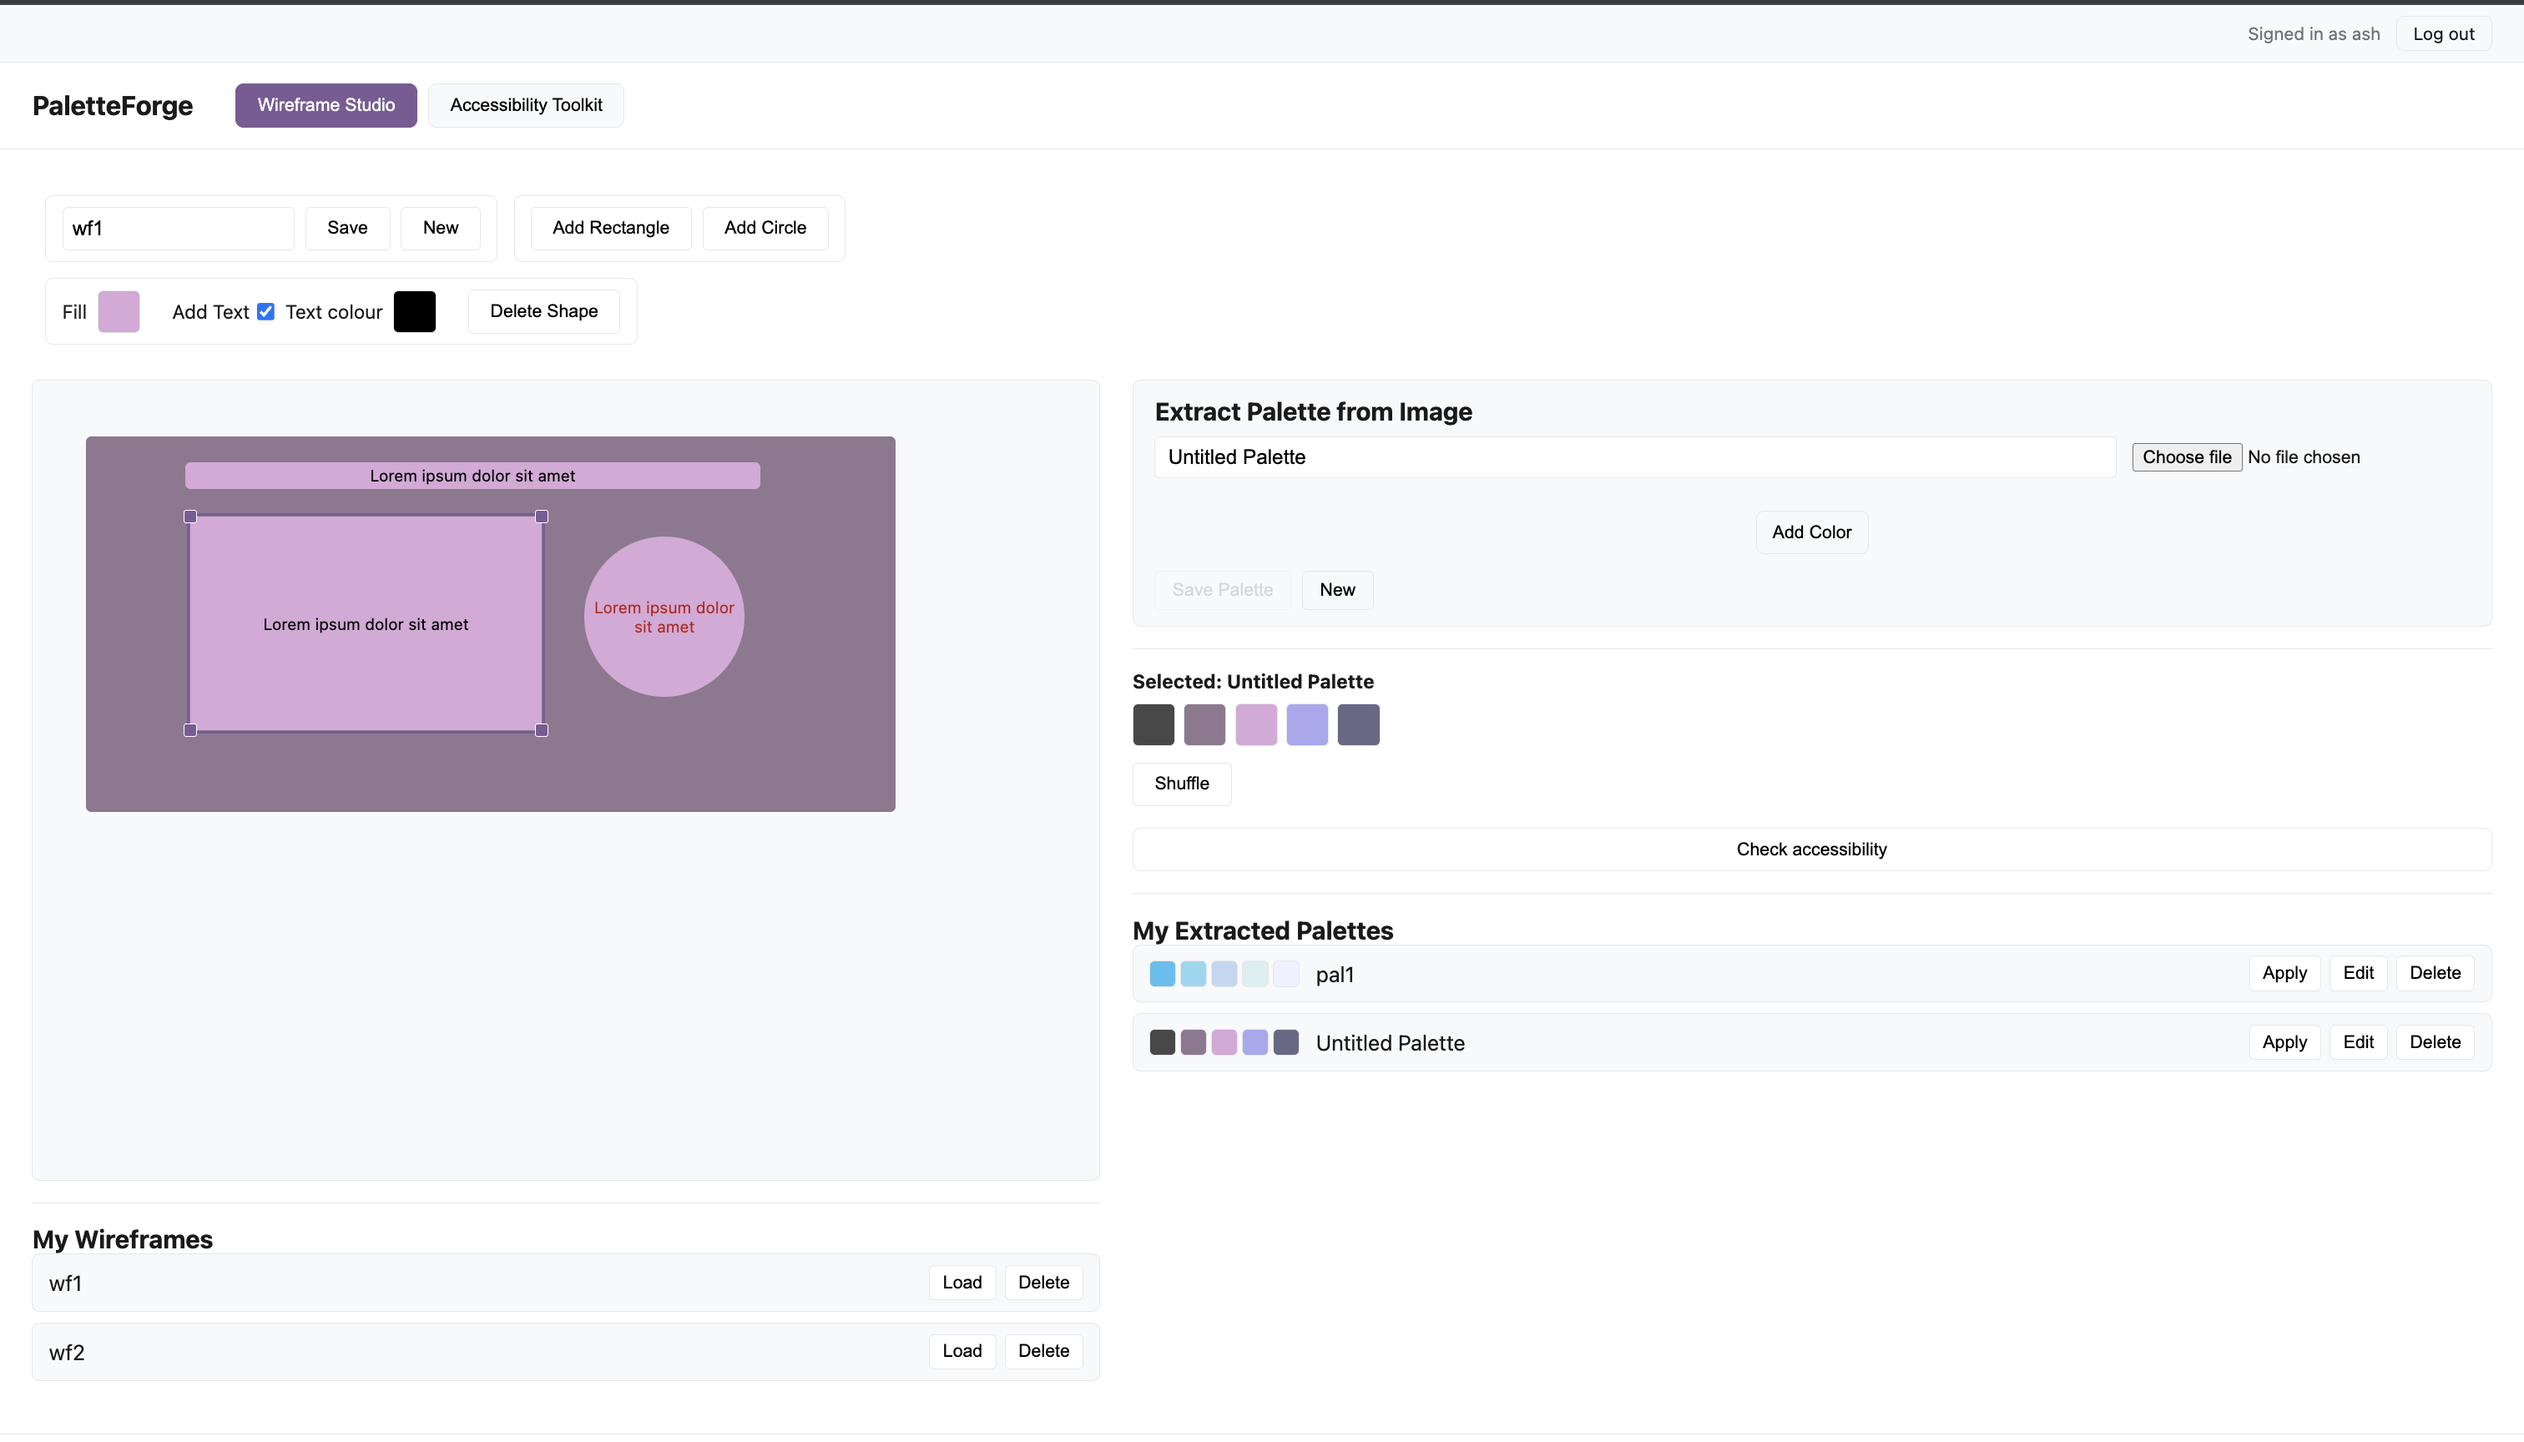
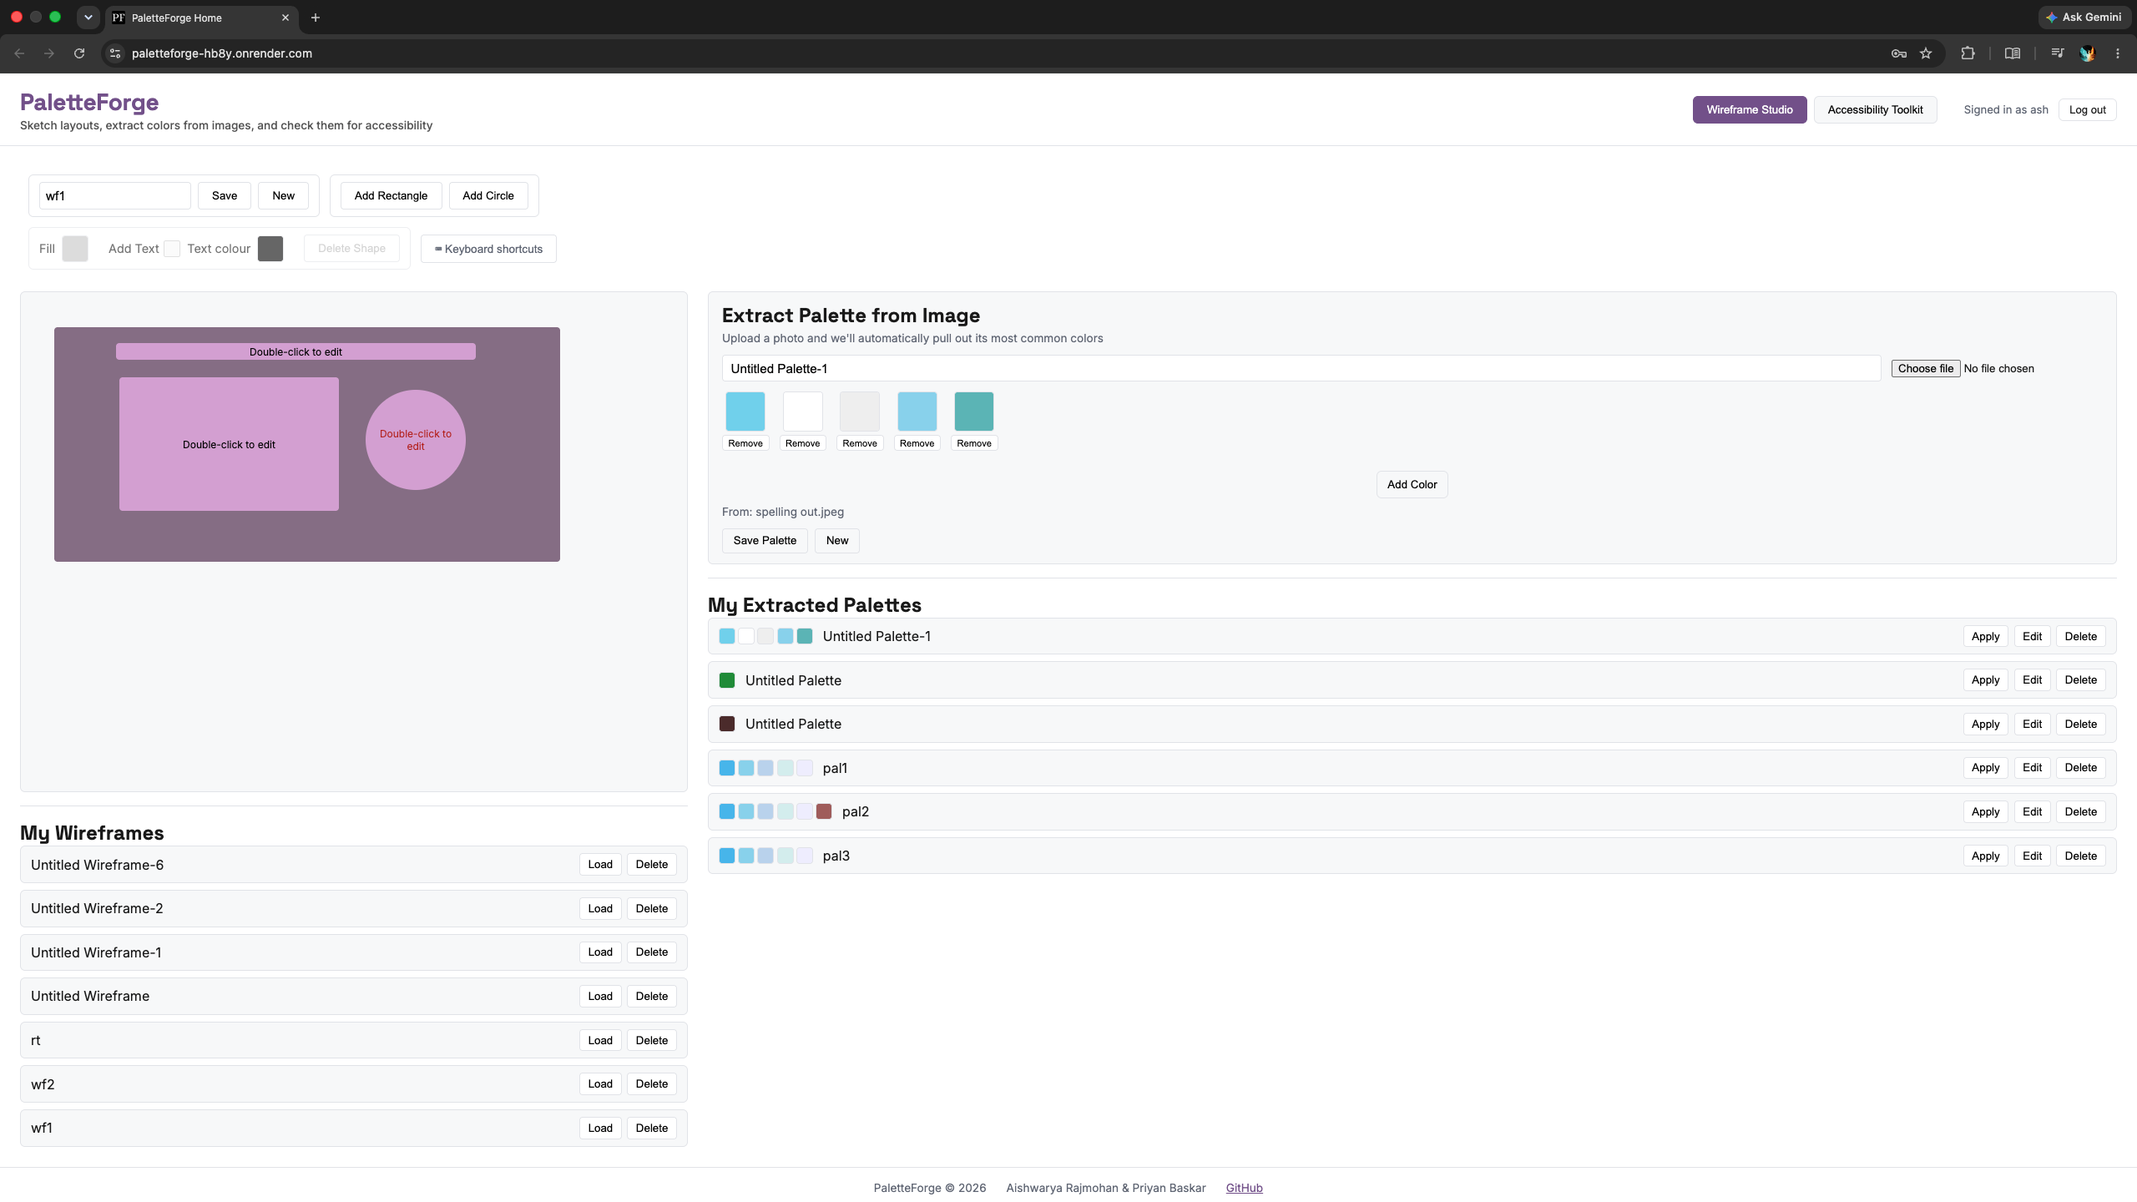
Fix mobile keyboard-shortcuts popup overflow, shuffle-hint layout, and button labeling; add SEO meta description

diff --git a/frontend/src/components/WireframeStudio/WireframeStudio.jsx b/frontend/src/components/WireframeStudio/WireframeStudio.jsx
@@ -278,25 +278,32 @@ function WireframeStudio({ onSendToAccessibility }) {
             ⌨ Keyboard shortcuts
           </button>
           {showShortcuts && (
-            <ul className="wireframe-shortcuts-list">
-              <li>
-                <kbd>Tab</kbd> — move focus to the next shape (also selects it)
-              </li>
-              <li>
-                <kbd>↑</kbd> <kbd>↓</kbd> <kbd>←</kbd> <kbd>→</kbd> — move the
-                focused shape
-              </li>
-              <li>
-                <kbd>Shift</kbd> + arrow keys — resize the focused shape
-              </li>
-              <li>
-                <kbd>Escape</kbd> — deselect the focused shape
-              </li>
-              <li>
-                Tab to &quot;Delete Shape&quot;, then <kbd>Enter</kbd> — delete
-                the focused shape
-              </li>
-            </ul>
+            <div className="wireframe-shortcuts-list">
+              <p className="wireframe-shortcuts-note">
+                Works with any keyboard, including a Bluetooth or external
+                keyboard connected to a phone or tablet.
+              </p>
+              <ul>
+                <li>
+                  <kbd>Tab</kbd> — move focus to the next shape (also selects
+                  it)
+                </li>
+                <li>
+                  <kbd>↑</kbd> <kbd>↓</kbd> <kbd>←</kbd> <kbd>→</kbd> — move the
+                  focused shape
+                </li>
+                <li>
+                  <kbd>Shift</kbd> + arrow keys — resize the focused shape
+                </li>
+                <li>
+                  <kbd>Escape</kbd> — deselect the focused shape
+                </li>
+                <li>
+                  Tab to &quot;Delete Shape&quot;, then <kbd>Enter</kbd> —
+                  delete the focused shape
+                </li>
+              </ul>
+            </div>
           )}
         </div>
       </div>
@@ -334,10 +341,6 @@ function WireframeStudio({ onSendToAccessibility }) {
                 onMatch={handleManualMatch}
                 onShuffle={handleShuffle}
               />
-              <p className="wireframe-accessibility-hint">
-                Send this palette to the Accessibility Toolkit to check its
-                contrast
-              </p>
               <button
                 type="button"
                 className="wireframe-send-to-accessibility"
@@ -345,7 +348,7 @@ function WireframeStudio({ onSendToAccessibility }) {
                   onSendToAccessibility(toRoleColors(selectedPalette.colors))
                 }
               >
-                Check accessibility
+                Send palette to Accessibility Toolkit
               </button>
             </>
           )}

diff --git a/frontend/src/components/WireframeStudio/WireframeStudio.css b/frontend/src/components/WireframeStudio/WireframeStudio.css
@@ -20,17 +20,12 @@
   border-radius: var(--radius-md);
 }
 
-.wireframe-accessibility-hint {
-  margin: 0.75rem 0 0.4rem;
-  font-size: 0.8rem;
-  color: var(--color-text-dim);
-}
-
 .wireframe-send-to-accessibility {
   display: flex;
   align-items: center;
   justify-content: center;
   gap: 0.5rem;
+  margin-top: 0.75rem;
   padding: 0.5rem 0.75rem;
   border: 1px solid var(--color-border);
   border-radius: var(--radius-md);
@@ -94,8 +89,8 @@
 }
 
 .wireframe-text-toggle input[type="checkbox"] {
-  width: 20px;
-  height: 20px;
+  width: 24px;
+  height: 24px;
   margin: 0;
   cursor: pointer;
 }
@@ -131,6 +126,7 @@
   top: calc(100% + 0.5rem);
   right: 0;
   width: 280px;
+  max-width: calc(100vw - 2rem);
   margin: 0;
   padding: 0.75rem 1rem;
   border: 1px solid var(--color-border);
@@ -138,8 +134,21 @@
   background: var(--color-surface);
   box-shadow: 0 2px 10px rgba(0, 0, 0, 0.15);
   font-size: 0.85rem;
-  list-style: none;
   z-index: 10;
+}
+
+.wireframe-shortcuts-note {
+  margin: 0 0 0.6rem;
+  padding-bottom: 0.6rem;
+  border-bottom: 1px solid var(--color-border);
+  color: var(--color-text-dim);
+  font-size: 0.8rem;
+}
+
+.wireframe-shortcuts-list ul {
+  list-style: none;
+  margin: 0;
+  padding: 0;
 }
 
 .wireframe-shortcuts-list li {
@@ -188,6 +197,11 @@
   .wireframe-column,
   .palette-sidebar {
     min-width: 0;
+  }
+
+  .wireframe-shortcuts-list {
+    left: 0;
+    right: auto;
   }
 }
 

diff --git a/frontend/index.html b/frontend/index.html
@@ -7,6 +7,10 @@
     <link rel="apple-touch-icon" sizes="180x180" href="/apple-touch-icon.png" />
     <link rel="shortcut icon" href="/favicon.ico" />
     <meta name="viewport" content="width=device-width, initial-scale=1.0" />
+    <meta
+      name="description"
+      content="PaletteForge is a full-stack design tool that pairs a wireframe board with an accessibility toolkit — sketch layouts, extract or build color palettes, and check every color pairing against WCAG contrast standards."
+    />
     <link rel="preconnect" href="https://fonts.googleapis.com" />
     <link rel="preconnect" href="https://fonts.gstatic.com" crossorigin />
     <link

diff --git a/frontend/src/components/WireframeStudio/PaletteApplyPanel.jsx b/frontend/src/components/WireframeStudio/PaletteApplyPanel.jsx
@@ -22,12 +22,12 @@ function PaletteApplyPanel({ palette, canMatch, onMatch, onShuffle }) {
           />
         ))}
       </div>
-      <button type="button" onClick={onShuffle}>
-        Shuffle
-      </button>
       <p className="palette-apply-shuffle-hint">
         Randomly reassigns these colors across your shapes
       </p>
+      <button type="button" onClick={onShuffle}>
+        Shuffle
+      </button>
     </div>
   );
 }

diff --git a/frontend/src/components/WireframeStudio/PaletteApplyPanel.css b/frontend/src/components/WireframeStudio/PaletteApplyPanel.css
@@ -42,7 +42,7 @@ button {
 }
 
 .palette-apply-shuffle-hint {
-  margin: 0.4rem 0 0;
+  margin: 0 0 0.4rem;
   font-size: 0.8rem;
   color: var(--color-text-dim);
 }

diff --git a/README.md b/README.md
@@ -6,9 +6,9 @@ A full-stack design tool that pairs a wireframe board with an accessibility tool
 
 ## Authors
 
-**Aishwarya Rajmohan** [LinkedIn](https://linkedin.com/in/aishwaryamohan1698) · [GitHub](https://github.com/aish6498-hub) — Wireframe Studio: shape board, drag/resize/recolor, personal wireframe + palette libraries, image-based palette extraction, apply/shuffle, and the Accessibility Toolkit handoff
+**Aishwarya Rajmohan** [LinkedIn](https://linkedin.com/in/aishwaryamohan1698) · [GitHub](https://github.com/aish6498-hub) — Wireframe Studio
 
-**Priyan Baskar** [LinkedIn](https://www.linkedin.com/in/priyan-baskar-a1263227a/) · [GitHub](https://github.com/priyan-b) — Accessibility Toolkit: contrast checker, role-based palette builder, audit & report, auto-fix, and authentication (Passport local strategy, sessions)
+**Priyan Baskar** [LinkedIn](https://www.linkedin.com/in/priyan-baskar-a1263227a/) · [GitHub](https://github.com/priyan-b) — Accessibility Toolkit
 
 ---
 
@@ -29,24 +29,18 @@ The app is deployed at:
 
 Most design tools separate "make it look right" from "make it accessible" — you build a mockup, then someone else runs an accessibility pass on it later, if at all. PaletteForge keeps both in the same place.
 
-The **Wireframe Studio** side is a lightweight layout tool: drop rectangles and circles onto a board, drag and resize them, recolor them by hand, or pull a palette straight out of an uploaded image (via canvas-based color extraction — no external API). Palettes and wireframes both save to a personal library per account, and a Shuffle feature randomly reassigns an applied palette across your shapes without ever repeating the same combination twice in a row.
+The **Wireframe Studio** side is a lightweight layout tool: drop rectangles and circles onto a board, drag, resize, and recolor them, or pull a palette straight out of an uploaded image via client-side color extraction (no external API). Wireframes and palettes both save to a personal library per account.
 
-The **Accessibility Toolkit** side takes that same color thinking and checks it against WCAG 2.1 contrast math: a live contrast checker with pass/fail badges, a role-based palette builder (background/primary/accent/text/border), a batch audit that scores a saved palette across multiple foreground/background pairings, and an auto-fix tool that nudges a failing color's lightness just enough to pass — without changing its hue.
-
-The bridge between the two: a **"Check accessibility"** button in Wireframe Studio takes whatever palette you've applied to your shapes and hands it straight to the Palette Builder, pre-filled, so you can audit it without re-entering a single hex code.
+The **Accessibility Toolkit** side checks that same color thinking against WCAG 2.1: a live contrast checker, a role-based palette builder, a batch audit across multiple color pairings, and an auto-fix tool that nudges a failing color into passing.
 
 ### Features
 
 _Aishwarya Rajmohan — Wireframe Studio_
 
-- **Shape board** — add rectangles/circles, drag to reposition, resize from any corner, select and delete
-- **Manual recolor** — per-shape fill color picker, optional text label with its own color
-- **Wireframe library** — save, load, and delete named wireframes tied to your account
-- **Image palette extraction** — upload an image, get a color palette pulled from it via client-side canvas quantization (no external API)
-- **Palette library** — save, edit, and delete extracted palettes independently of any wireframe
-- **Apply + Shuffle** — apply a saved palette to your shapes; Shuffle randomly reassigns colors and is guaranteed not to repeat the previous combination
-- **Manual color matching** — click a palette swatch to apply it directly to the currently selected shape
-- **Accessibility handoff** — one click sends the applied palette's colors into the Accessibility Toolkit's Palette Builder, pre-filled by role
+- **Shape board** — add rectangles/circles, drag, resize, and recolor with keyboard support
+- **Image palette extraction** — pull a color palette from an uploaded image via client-side canvas quantization (no external API)
+- **Wireframe and palette libraries** — save, load, edit, and delete, tied to your account
+- **Apply, Shuffle, and manual matching** — apply a saved palette to your shapes, shuffle it (won't repeat the immediately previous assignment), or click a swatch to recolor one shape directly
 
 _Priyan Baskar — Accessibility Toolkit_
 
@@ -58,7 +52,16 @@ _Priyan Baskar — Accessibility Toolkit_
 
 ---
 
+## From Design to Accessibility
+
+The **"Check accessibility"** button in Wireframe Studio is the bridge between the two halves: it takes whatever palette you've applied to your shapes and hands it straight to the Accessibility Toolkit's Palette Builder, pre-filled by role. You can move from visual exploration to accessibility validation without re-entering a single hex code.
+
+---
+
 ## Screenshot
+
+Login page:
+![Login](docs/login.png)
 
 Wireframe Studio — shape board with an applied palette:
 ![Wireframe Studio](docs/wireframe-studio.png)
@@ -88,6 +91,26 @@ PaletteForge is a single-page app with no client-side router — navigation betw
 
 ---
 
+## How to Use
+
+**Wireframe Studio**
+
+1. Sign up or log in.
+2. Add and manipulate shapes on the board (drag, resize, recolor).
+3. Create a palette manually or extract one from an uploaded image.
+4. Apply the palette to your shapes, or shuffle the assignments.
+5. Save the wireframe and palette to your library.
+6. Select "Check accessibility" to send the palette to the Accessibility Toolkit.
+
+**Accessibility Toolkit**
+
+1. Use the Contrast Checker to test any two colors against WCAG AA/AAA thresholds.
+2. Build a named palette by assigning colors to five UI roles (background, primary, accent, text, border) in Palette Builder.
+3. Run Audit & Report on a saved palette to check every role pairing at once and save the report.
+4. Use Auto-Fix to automatically adjust a failing color's lightness until it passes — without changing its hue.
+
+---
+
 ## Accessibility
 
 **Keyboard support — Wireframe Studio shape board:**
@@ -114,7 +137,7 @@ An in-app "Keyboard shortcuts" reference is available next to the wireframe tool
 
 PaletteForge is a single responsive codebase, so the same accessibility support applies whether it's opened on a desktop browser, a tablet, or a phone — there's no separate "mobile version" with different guarantees.
 
-- Every input, button, checkbox, and color picker has an accessible name (via a visible label or `aria-label`), so screen readers — VoiceOver on iOS, TalkBack on Android, NVDA/JAWS on desktop — announce every control correctly no matter the device.
+- Every input, button, checkbox, and color picker has an accessible name, via a visible label or `aria-label` — verified with automated accessibility testing (axe-core), which checks the same accessible-name/role semantics screen readers like VoiceOver and TalkBack rely on.
 - Headings follow one correct hierarchy (`h1 → h2 → h3`) throughout both views, so screen reader users can jump by heading level on any screen size.
 - All page content lives inside a semantic landmark (`<nav>`, `<main>`, `<footer>`) — including account info and the small-screen notice — so landmark-based navigation works everywhere.
 - The layout reflows instead of requiring horizontal scrolling at narrow widths, and pinch-to-zoom is never disabled, so low-vision users can zoom in on any device.
